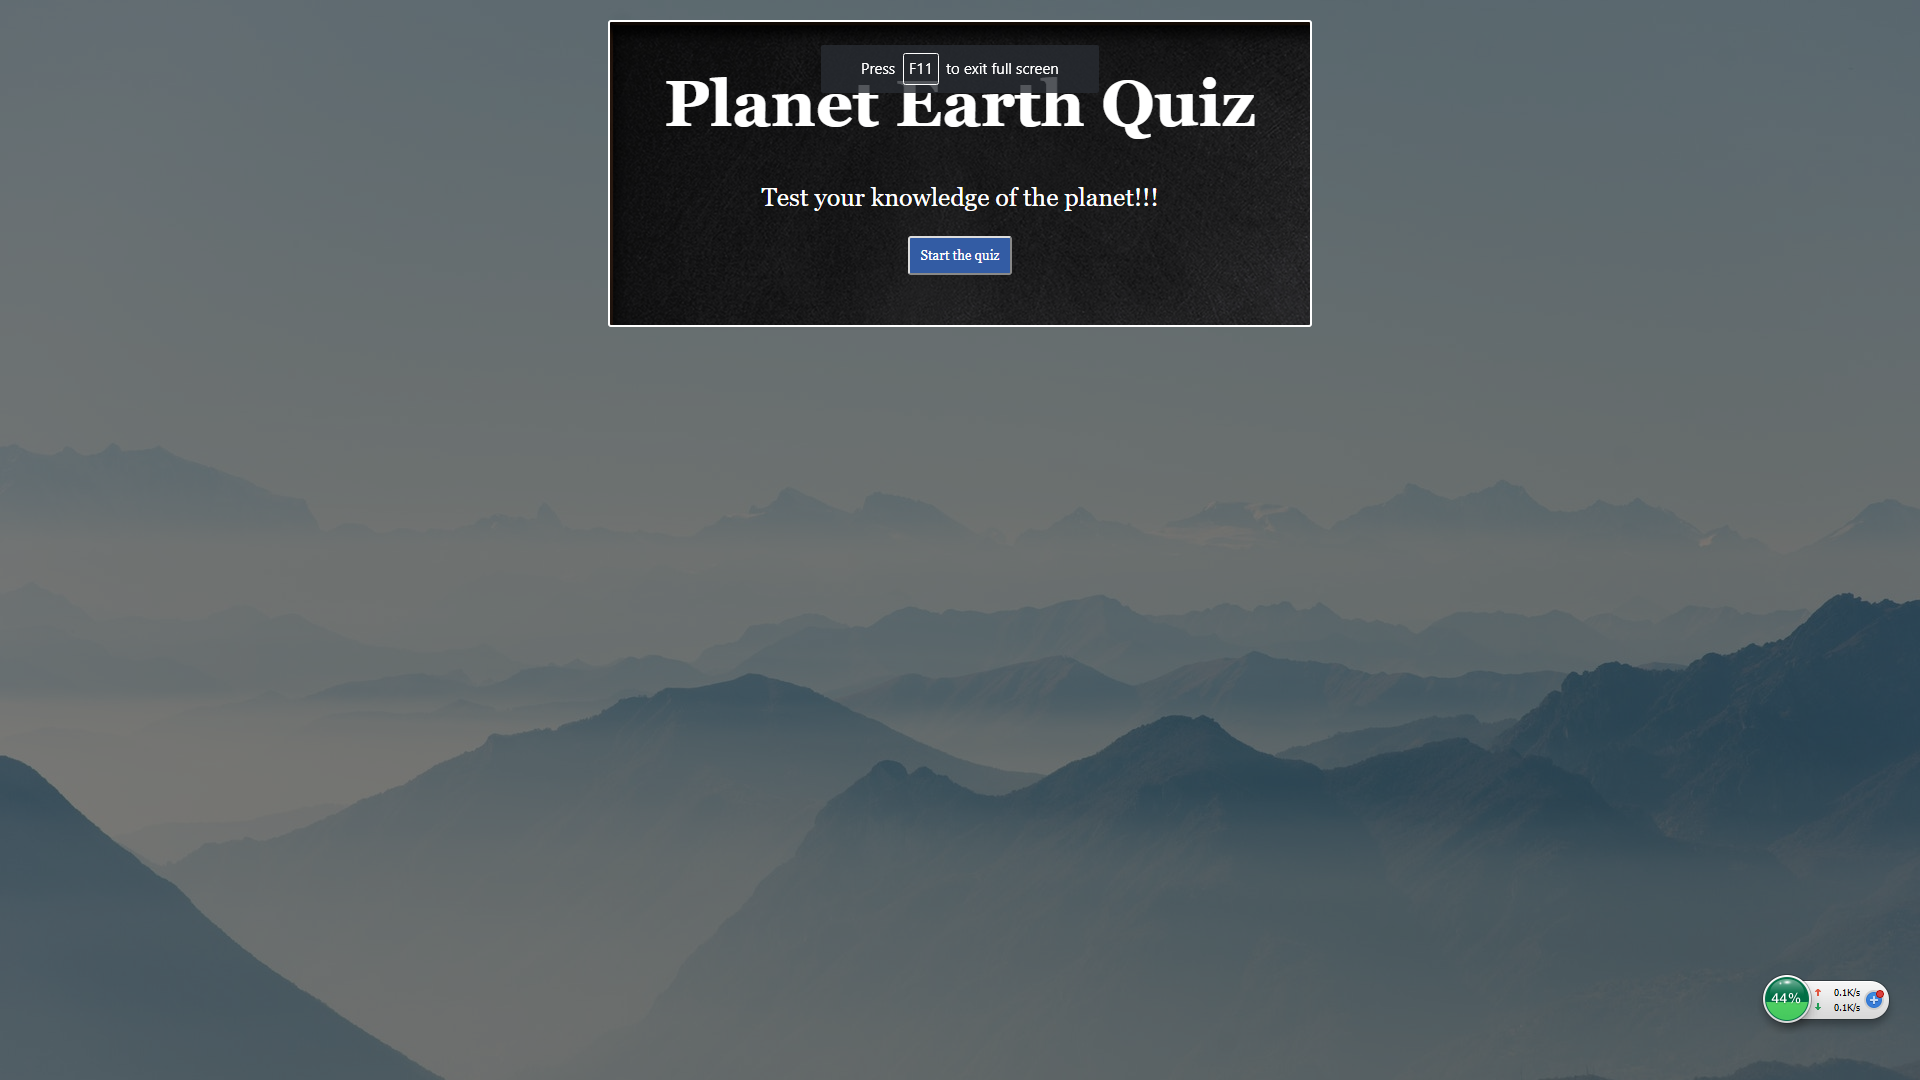
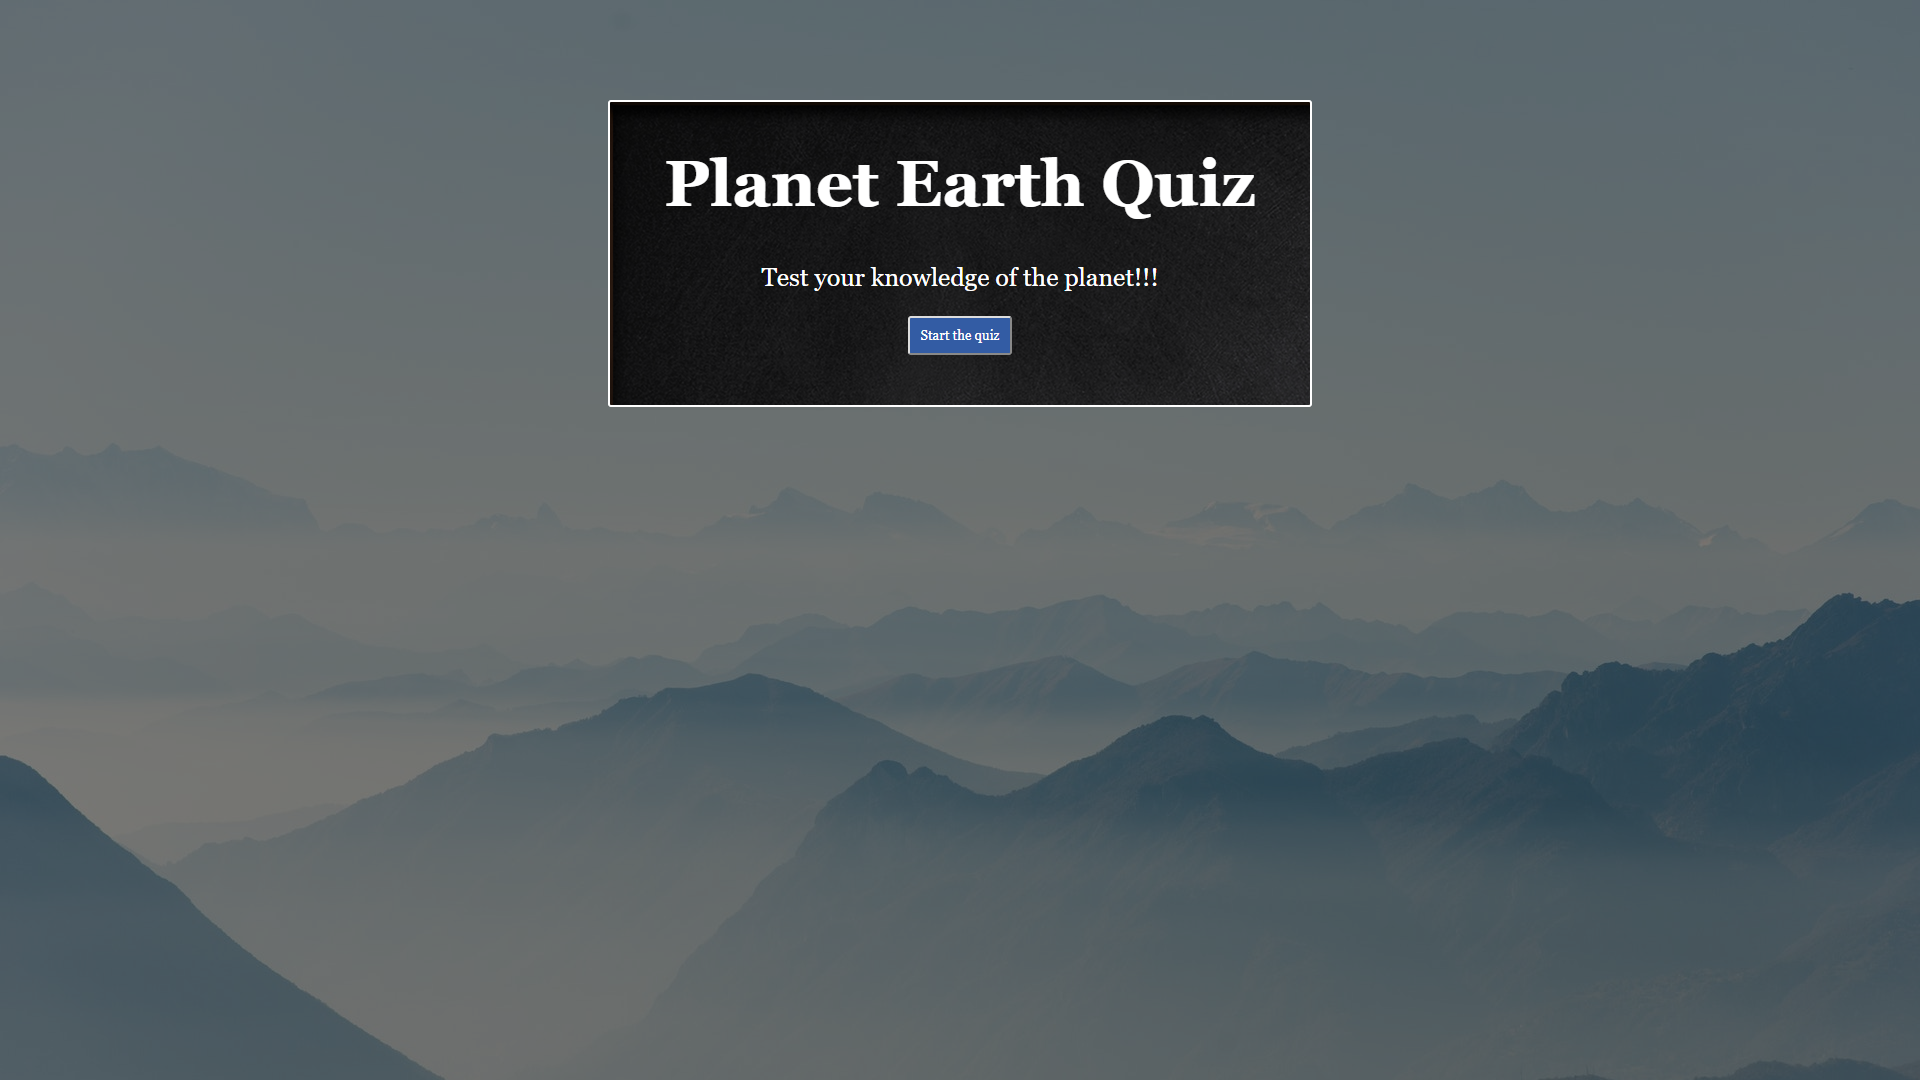
new image

Changed region(s): [[0.3125, 0.0, 0.6875, 0.3972], [0.9062, 0.8861, 1.0, 0.9472]]

diff --git a/index.css b/index.css
@@ -30,6 +30,7 @@ body,
   background: linear-gradient(rgba(0, 0, 0, 0.5), rgba(0, 0, 0, 0.5)),
     url("backgroundquiz.jpg");
   border-radius: 3px;
+  margin-top: 100px;
 }
 
 h1 {

diff --git a/README.md b/README.md
@@ -4,7 +4,7 @@ Test your knowledge of the planet!
 
 ## Screenshots
 
-![screenshot](https://user-images.githubusercontent.com/32127270/43607894-817341d6-9654-11e8-960b-df59491e09bd.png)
+![screenshot](https://user-images.githubusercontent.com/32127270/43608129-38a513de-9655-11e8-8cec-0d5ee5b2fc30.png)
 
 ## Technology Used
 
